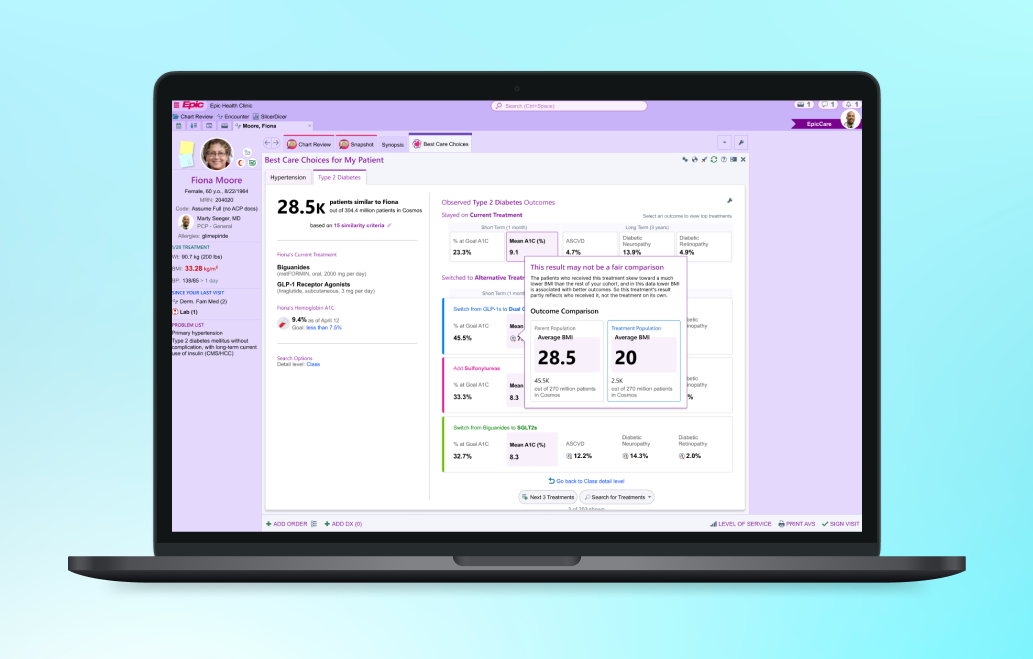
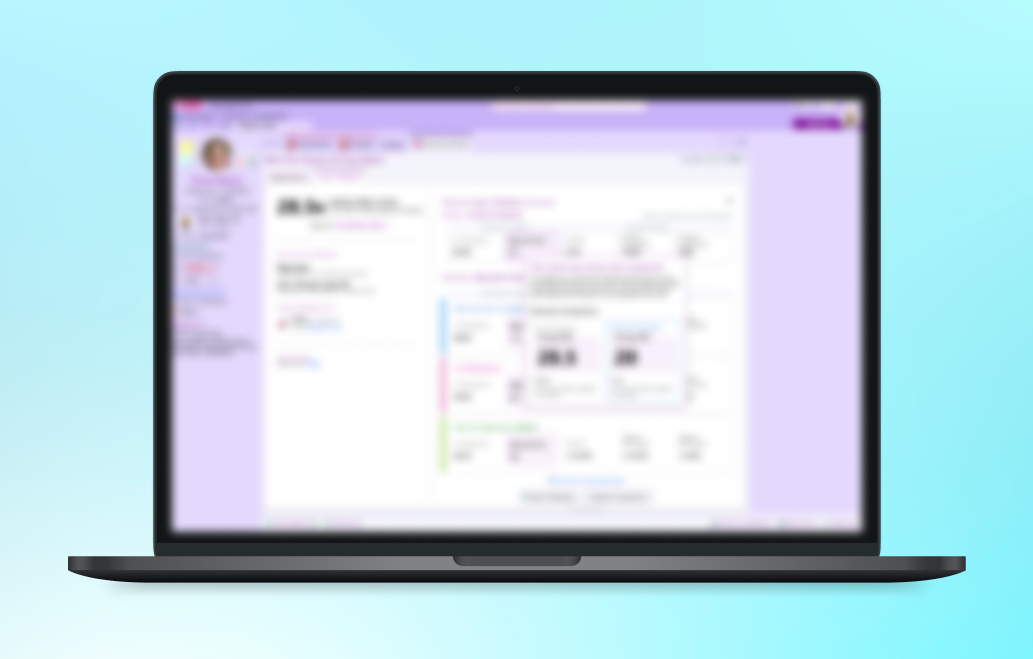
added epic projects

diff --git a/variant-visualizer.html b/variant-visualizer.html
@@ -1,0 +1,134 @@
+<!doctype html>
+<html lang="en">
+  <head>
+    <meta charset="utf-8" />
+    <meta name="viewport" content="width=device-width,initial-scale=1" />
+    <title>Genomic Variant Visualizer</title>
+    <link rel="stylesheet" href="style.css">
+    <link rel="icon" href="favicon.png" type="image/png">
+  </head>
+  <body>
+
+    <header class="site-header">
+      <div class="header-inner">
+        <a href="index.html" class="brand-link"><span class="brand">kate shih</span></a>
+        <nav class="top-nav">
+          <a href="index.html#work">work</a>
+          <a href="about.html">about</a>
+        </nav>
+      </div>
+    </header>
+
+    <div class="main-grid">
+      <main class="content">
+        <div class="content-inner">
+
+          <header class="case-header">
+            <h1 class="case-title">Making Genomic Data Easier to Explore</h1>
+            <div class="case-meta">
+              <div>Epic Systems</div>
+            </div>
+          </header>
+
+          <section class="case-hero reveal">
+            <img src="variant/genomics-thumbnail.png" alt="Variant Visualizer preview" class="case-hero-img" />
+          </section>
+
+          <section id="overview" class="case-overview reveal">
+            <h3>what is it?</h3>
+            <p>A visualizer of patient genomic data and client internal knowledgebases for variant scientists to make actionable clinical insights.</p>
+            <br>
+            <p>...what does that even mean?</p>
+            <br>
+            <p>Without all the scientific terminology, I essentially helped create a tool that makes it much easier to see differences in a person’s DNA. This helps variant scientists explore genetic differences and identify if they're relevant to a diagnosis.</p>
+          </section>
+
+          <section id="role" class="case-overview reveal">
+            <h3>what did I do?</h3>
+            <p>I was the sole designer on this project, working with a developer partner to take the product from nothing to a mostly built-out MVP. I led design sprints, ran critique sessions, and led meetings with product and tech teams to figure out the problem and how best to solve it. Through lots of sketching, prototyping, and conversations with professionals in the field, I also created Figma prototypes for future features.</p>
+          </section>
+
+          <section id="takeaways" class="case-closing reveal">
+            <h3>takeaways</h3>
+            <p>Going into this project, I knew absolutely nothing about genomics, which was definitely intimidating at first! But it ended up being such an fun and interesting experience, and I loved having the freedom to explore the problem, learn from experts, and really take ownership of the design process.</p>
+            <br>
+            <p>I can’t share too much about this project publicly, but I’d love to talk about it more in-depth over a call. Send me a message at <a href="mailto:kateshih@utexas.edu">kateshih@utexas.edu</a>!</p>
+          </section>
+
+          <script>
+            document.addEventListener('DOMContentLoaded', function () {
+              const observer = new IntersectionObserver((entries) => {
+                entries.forEach(entry => {
+                  if (entry.isIntersecting) {
+                    entry.target.classList.add('visible');
+                    observer.unobserve(entry.target);
+                  }
+                });
+              }, { threshold: 0.12 });
+              document.querySelectorAll('.reveal').forEach(el => observer.observe(el));
+
+              const navLinks = document.querySelectorAll('.nav-panel a[href^="#"]');
+              const offset = 28;
+              navLinks.forEach(link => {
+                link.addEventListener('click', (e) => {
+                  e.preventDefault();
+                  const target = document.querySelector(link.getAttribute('href'));
+                  if (!target) return;
+                  navLinks.forEach(l => l.classList.remove('active'));
+                  link.classList.add('active');
+                  const top = window.scrollY + target.getBoundingClientRect().top - offset - 8;
+                  window.scrollTo({ top, behavior: 'smooth' });
+                });
+              });
+
+              const sections = Array.from(document.querySelectorAll('section[id]'));
+              let scrollspyTimeout;
+              function onScroll() {
+                const pos = window.scrollY + window.innerHeight / 3;
+                let current = sections.slice().reverse().find(s => s.offsetTop <= pos);
+                navLinks.forEach(l => l.classList.remove('active'));
+                if (current) {
+                  const active = document.querySelector('.nav-panel a[href="#' + current.id + '"]');
+                  if (active) active.classList.add('active');
+                }
+              }
+              window.addEventListener('scroll', () => {
+                clearTimeout(scrollspyTimeout);
+                scrollspyTimeout = setTimeout(onScroll, 100);
+              }, { passive: true });
+              onScroll();
+            });
+          </script>
+
+        </div>
+      </main>
+
+      <aside class="sidebar">
+        <div class="sidebar-inner">
+          <a href="index.html" class="case-backlink">back to work</a>
+
+          <div class="sidebar-project">
+            <h2 class="side-project">Genomic Variant Visualizer</h2>
+            <p class="side-desc">A tool that makes it easier to see and interpret variants in a person’s genome.</p>
+          </div>
+
+          <div class="panel exp-panel">
+            <p class="exp-credits"><strong>my role:</strong> UX Design Intern</p>
+            <p class="exp-credits"><strong>tools:</strong> Figma</p>
+            <p class="exp-credits"><strong>timeline:</strong> Summer 2026</p>
+          </div>
+
+          <div class="panel nav-panel">
+            <h4>jump to...</h4>
+            <ul>
+              <li><a href="#overview">overview</a></li>
+              <li><a href="#role">my role</a></li>
+              <li><a href="#takeaways">takeaways</a></li>
+            </ul>
+          </div>
+        </div>
+      </aside>
+    </div>
+
+  </body>
+</html>

diff --git a/best-care-choices.html b/best-care-choices.html
@@ -1,0 +1,130 @@
+<!doctype html>
+<html lang="en">
+  <head>
+    <meta charset="utf-8" />
+    <meta name="viewport" content="width=device-width,initial-scale=1" />
+    <title>Best Care Choices</title>
+    <link rel="stylesheet" href="style.css">
+    <link rel="icon" href="favicon.png" type="image/png">
+  </head>
+  <body>
+
+    <header class="site-header">
+      <div class="header-inner">
+        <a href="index.html" class="brand-link"><span class="brand">kate shih</span></a>
+        <nav class="top-nav">
+          <a href="index.html#work">work</a>
+          <a href="about.html">about</a>
+        </nav>
+      </div>
+    </header>
+
+    <div class="main-grid">
+      <main class="content">
+        <div class="content-inner">
+
+          <header class="case-header">
+            <h1 class="case-title">Clarifying Complex Clinical Decisions</h1>
+            <div class="case-meta">
+              <div>Epic Systems</div>
+            </div>
+          </header>
+
+          <section class="case-hero reveal">
+            <img src="bcc/bcc-thumbnail.png" alt="Best Care Choices preview" class="case-hero-img" />
+          </section>
+
+          <section id="overview" class="case-overview reveal">
+            <h3>what is it?</h3>
+            <p>I worked on Epic’s “Best Care Choices for My Patient” feature, helping improve how users understand and interact with the tool, especially in less straightforward situations.</p>
+          </section>
+
+          <section id="role" class="case-overview reveal">
+            <h3>what did I do?</h3>
+            <p>I was the sole designer on this project, working with a developer partner. I ran design sprints, facilitated critique sessions, and talked directly with clinicians to better understand their needs. I also helped host a webinar with 70+ users, giving me the opportunity to engage with real clients and learn more about their experiences and wants for the product.</p>
+          </section>
+
+          <section id="takeaways" class="case-closing reveal">
+            <h3>takeaways</h3>
+            <p>This was a really valuable experience in learning how to design for an existing product and work within an established team. I got to conduct user research with real clients, talk directly with clinicians, and see how their feedback could inform design decisions. It was a great opportunity to learn how to improve an existing feature rather than starting from scratch!</p>
+            <br>
+            <p>I can’t share too much about this project publicly, but I’d love to talk about it more in-depth over a call. Send me a message at <a href="mailto:kateshih@utexas.edu">kateshih@utexas.edu</a>!</p>
+          </section>
+
+          <script>
+            document.addEventListener('DOMContentLoaded', function () {
+              const observer = new IntersectionObserver((entries) => {
+                entries.forEach(entry => {
+                  if (entry.isIntersecting) {
+                    entry.target.classList.add('visible');
+                    observer.unobserve(entry.target);
+                  }
+                });
+              }, { threshold: 0.12 });
+              document.querySelectorAll('.reveal').forEach(el => observer.observe(el));
+
+              const navLinks = document.querySelectorAll('.nav-panel a[href^="#"]');
+              const offset = 28;
+              navLinks.forEach(link => {
+                link.addEventListener('click', (e) => {
+                  e.preventDefault();
+                  const target = document.querySelector(link.getAttribute('href'));
+                  if (!target) return;
+                  navLinks.forEach(l => l.classList.remove('active'));
+                  link.classList.add('active');
+                  const top = window.scrollY + target.getBoundingClientRect().top - offset - 8;
+                  window.scrollTo({ top, behavior: 'smooth' });
+                });
+              });
+
+              const sections = Array.from(document.querySelectorAll('section[id]'));
+              let scrollspyTimeout;
+              function onScroll() {
+                const pos = window.scrollY + window.innerHeight / 3;
+                let current = sections.slice().reverse().find(s => s.offsetTop <= pos);
+                navLinks.forEach(l => l.classList.remove('active'));
+                if (current) {
+                  const active = document.querySelector('.nav-panel a[href="#' + current.id + '"]');
+                  if (active) active.classList.add('active');
+                }
+              }
+              window.addEventListener('scroll', () => {
+                clearTimeout(scrollspyTimeout);
+                scrollspyTimeout = setTimeout(onScroll, 100);
+              }, { passive: true });
+              onScroll();
+            });
+          </script>
+
+        </div>
+      </main>
+
+      <aside class="sidebar">
+        <div class="sidebar-inner">
+          <a href="index.html" class="case-backlink">back to work</a>
+
+          <div class="sidebar-project">
+            <h2 class="side-project">Best Care Choices</h2>
+            <p class="side-desc">Improving how clinicians understand and use Epic’s “Best Care Choices for My Patient” feature.</p>
+          </div>
+
+          <div class="panel exp-panel">
+            <p class="exp-credits"><strong>my role:</strong> UX Design Intern</p>
+            <p class="exp-credits"><strong>tools:</strong> Figma, Illustrator</p>
+            <p class="exp-credits"><strong>timeline:</strong> Summer 2026</p>
+          </div>
+
+          <div class="panel nav-panel">
+            <h4>jump to...</h4>
+            <ul>
+              <li><a href="#overview">overview</a></li>
+              <li><a href="#role">my role</a></li>
+              <li><a href="#takeaways">takeaways</a></li>
+            </ul>
+          </div>
+        </div>
+      </aside>
+    </div>
+
+  </body>
+</html>

diff --git a/index.html b/index.html
@@ -45,6 +45,32 @@
             <div class="projects-grid">
 
             <article class="project-card">
+              <a href="variant-visualizer.html" class="project-link">
+                <div class="project-image">
+                  <img src="variant/genomics-thumbnail.png" alt="variant visualizer">
+                </div>
+                <div class="project-body">
+                  <div class="project-title">Making Genomic Variants Easier to See and Interpret</div>
+                  <div class="project-sub">Epic Systems</div>
+                  <div class="project-date">Summer 2026</div>
+                </div>
+              </a>
+            </article>
+
+            <article class="project-card">
+              <a href="best-care-choices.html" class="project-link">
+                <div class="project-image">
+                  <img src="bcc/bcc-thumbnail.png" alt="best care choices">
+                </div>
+                <div class="project-body">
+                  <div class="project-title">Clarifying Complex Clinical Decisions</div>
+                  <div class="project-sub">Epic Systems</div>
+                  <div class="project-date">Summer 2026</div>
+                </div>
+              </a>
+            </article>
+
+            <article class="project-card">
               <a href="degree-audit-plus.html" class="project-link">
                 <div class="project-image">
                   <img src="dap/dap-thumbnail.png" alt="degree audit plus">
@@ -70,7 +96,7 @@
               </a>
             </article>
 
-            <article class="project-card">
+            <!--<article class="project-card">
             <a href="hack-tx.html" class="project-link">
               <div class="project-image">
                 <img src="hacktx/hacktx-thumbnail.png" alt="project screenshot">
@@ -81,18 +107,7 @@
                 <div class="project-date">Summer – Fall 2025</div>
               </div>
               </a>
-            </article>
-
-            <article class="project-card">
-              <div class="project-image">
-                <img src="bcc/bcc-thumbnail.png" alt="project screenshot">
-              </div>
-              <div class="project-body">
-                <div class="project-title">Designing for Edge Cases to Support Clinical Decisions</div>
-                <div class="project-sub">Epic Systems</div>
-                <div class="project-date">Coming Soon!</div>
-              </div>
-            </article>
+            </article>-->
 
           </div>
           </section>

diff --git a/style.css b/style.css
@@ -296,3 +296,6 @@ body { background:#FFF8F9;}
   font-style: italic;
   margin: 0 0 18px 0;
 }
+
+.case-closing a { color: #c5647a; text-decoration: underline; text-underline-offset: 3px; }
+.case-closing a:hover { color: #a84e64; }
